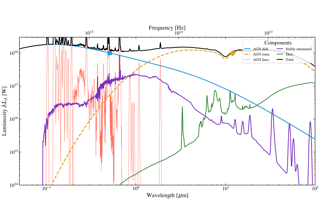
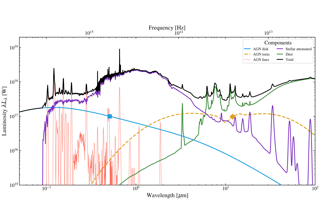
docs(gallery): back-fill 36 missing example figures + render showcase section
Renders and commits figures for examples whose source shipped in recent
feature PRs but were never rendered into the committed gallery (so they 404'd
on the deployed site). Covers AGN (feii_sweep, nenkova, torus_screen, kd18),
dust (wg00, reddy15, uv_bump, themis, dale2014), x-ray, radio, sfh, sps,
advanced diagnostics, and the newly-registered showcase group, plus the
re-rendered GRAHSP Fig.1 with corrected host normalisation.

Deferred (hidden via conf.py ignore_pattern, see that file): heavy fit/VI/
timing scripts, two population vmap scripts that OOM the build, and three
examples blocked on upstream library gaps (cat3d wind-fraction no-op,
unregistered skirtor_agnfitter torus, NaN Cue recipes).

diff --git a/docs/auto_examples/agn/plot_grahsp_paper_fig1_overview.py b/docs/auto_examples/agn/plot_grahsp_paper_fig1_overview.py
@@ -39,9 +39,9 @@ from tengri.components.agn.grahsp.templates import load_grahsp_templates
 setup_style()
 warnings.filterwarnings("ignore", message=".*BakedInBackend.*")
 
-C_NM_HZ = 2.99792458e17  # c in nm/s
+C_AA_HZ = 2.99792458e18  # c in Angstrom/s (st.wave is in Angstrom)
 ERG_TO_W = 1e-7
-L5100_ERG = 1.0e44  # disk normalisation (paper: = 1e37 W)
+L5100_ERG = 1.0e44  # disk normalisation: lambda*L_lambda(5100 A) (paper: = 1e37 W)
 
 # No-arg load_ssp() auto-discovers the bundled PARSEC/MILES/Chabrier wNE grid
 # regardless of the working directory (sphinx-gallery executes from elsewhere).
@@ -64,13 +64,14 @@ model = SEDModel.build(
 )
 params = model.spec.get_fixed_values()
 st = model.predict_state(params)
-wave_nm = np.asarray(st.wave)
-wave_um = wave_nm / 1e4
+wave_aa = np.asarray(st.wave)  # rest-frame wavelength [Angstrom]
+wave_um = wave_aa / 1e4
+wave_nm = wave_aa * 0.1  # nm grid for the GRAHSP evaluation
 
 
 def nu_Lnu_W(lnu):
-    # L_nu [erg/s/Hz] -> nu*L_nu = lambda*L_lambda [W]
-    return np.asarray(lnu) * (C_NM_HZ / wave_nm) * ERG_TO_W
+    # L_nu [erg/s/Hz] -> nu*L_nu = lambda*L_lambda [W]; wavelength in Angstrom.
+    return np.asarray(lnu) * (C_AA_HZ / wave_aa) * ERG_TO_W
 
 
 # --- Galaxy components (rest frame, from the forward state) ---
@@ -80,14 +81,18 @@ dust_ir = nu_Lnu_W(st.derived["sed_dust_ir"])  # galaxy dust emission
 # --- AGN sub-components, split via a matched GRAHSP evaluation ---
 templates = load_grahsp_templates()
 agn_params = GRAHSPParams(l5100=L5100_ERG, a_feii=5.0, fcov=0.4, si=-1.0)
-sed_agn = evaluate_grahsp_agn(jnp.asarray(wave_nm * 0.1), agn_params, templates)  # nm grid
-# evaluate returns L_lambda [erg/s/nm]; convert to L_nu then to nu*L_nu.
-to_lnu = (wave_nm**2) / C_NM_HZ  # L_lambda[/nm] -> L_nu : * lambda^2 / c (lambda in nm)
-disk = nu_Lnu_W(np.asarray(sed_agn.bbb) * to_lnu)
-torus = nu_Lnu_W(np.asarray(sed_agn.torus + sed_agn.si) * to_lnu)
-agn_lines = nu_Lnu_W(
-    np.asarray(sed_agn.broad_lines + sed_agn.narrow_lines + sed_agn.feii) * to_lnu
-)
+sed_agn = evaluate_grahsp_agn(jnp.asarray(wave_nm), agn_params, templates)  # nm grid
+
+
+def lam_Llam_W(l_lambda_per_nm):
+    # GRAHSP returns L_lambda [erg/s/nm]; lambda*L_lambda = L_lambda[/nm] * lambda[nm].
+    # This is identical to nu*L_nu, so it overlays consistently on the host curves.
+    return np.asarray(l_lambda_per_nm) * wave_nm * ERG_TO_W
+
+
+disk = lam_Llam_W(sed_agn.bbb)
+torus = lam_Llam_W(sed_agn.torus + sed_agn.si)
+agn_lines = lam_Llam_W(sed_agn.broad_lines + sed_agn.narrow_lines + sed_agn.feii)
 
 total = stellar + dust_ir + disk + torus + agn_lines
 
@@ -108,13 +113,15 @@ ax.plot([12.0], [torus[i12]], "D", color="#e0a020", ms=9, zorder=6)
 ax.set_xscale("log")
 ax.set_yscale("log")
 ax.set_xlim(0.05, 100.0)
-ax.set_ylim(1e34, 3e38)
+ax.set_ylim(1e35, 2e39)
 ax.set_xlabel(r"Wavelength [$\mu$m]")
 ax.set_ylabel(r"Luminosity $\lambda L_\lambda$ [W]")
 ax.legend(loc="upper right", frameon=True, fontsize=9, ncol=2, title="Components")
 
+# Secondary frequency axis: nu [Hz] = c[um/s] / lambda[um]; c/1e4 converts
+# c in Angstrom/s to um/s.
 secax = ax.secondary_xaxis(
-    "top", functions=(lambda x: C_NM_HZ / 1e3 / x, lambda nu: C_NM_HZ / 1e3 / nu)
+    "top", functions=(lambda x: C_AA_HZ / 1e4 / x, lambda nu: C_AA_HZ / 1e4 / nu)
 )
 secax.set_xlabel("Frequency [Hz]")
 

diff --git a/docs/conf.py b/docs/conf.py
@@ -216,7 +216,7 @@ _GALLERY_SECTION_ORDER = (
 # Tell sphinx-gallery to emit gallery subsections in the same pedagogical
 # order on the gallery landing page body (otherwise it falls back to
 # alphabetical-by-directory and "Advanced Topics" lands first).
-from sphinx_gallery.sorting import ExplicitOrder  # noqa: E402
+from sphinx_gallery.sorting import ExplicitOrder
 
 sphinx_gallery_conf["subsection_order"] = ExplicitOrder(
     [f"../examples/{s}" for s in _GALLERY_SECTION_ORDER]

diff --git a/docs/auto_examples/agn/plot_grahsp_paper_fig1_overview.rst b/docs/auto_examples/agn/plot_grahsp_paper_fig1_overview.rst
@@ -43,7 +43,7 @@ emission (green).
    within the purple stellar curve. A bare-stellar SSP + Cue nebular backend
    would separate it (see ``docs`` on SSP variants).
 
-.. GENERATED FROM PYTHON SOURCE LINES 22-123
+.. GENERATED FROM PYTHON SOURCE LINES 22-130
 
 
 
@@ -57,8 +57,8 @@ emission (green).
 
  .. code-block:: none
 
-    /Users/suchethacooray/Projects/tengri/examples/agn/plot_grahsp_paper_fig1_overview.py:117: RuntimeWarning: divide by zero encountered in divide
-      "top", functions=(lambda x: C_NM_HZ / 1e3 / x, lambda nu: C_NM_HZ / 1e3 / nu)
+    /Users/suchethacooray/Projects/tengri/examples/agn/plot_grahsp_paper_fig1_overview.py:124: RuntimeWarning: divide by zero encountered in divide
+      "top", functions=(lambda x: C_AA_HZ / 1e4 / x, lambda nu: C_AA_HZ / 1e4 / nu)
 
 
 
@@ -89,9 +89,9 @@ emission (green).
     setup_style()
     warnings.filterwarnings("ignore", message=".*BakedInBackend.*")
 
-    C_NM_HZ = 2.99792458e17  # c in nm/s
+    C_AA_HZ = 2.99792458e18  # c in Angstrom/s (st.wave is in Angstrom)
     ERG_TO_W = 1e-7
-    L5100_ERG = 1.0e44  # disk normalisation (paper: = 1e37 W)
+    L5100_ERG = 1.0e44  # disk normalisation: lambda*L_lambda(5100 A) (paper: = 1e37 W)
 
     # No-arg load_ssp() auto-discovers the bundled PARSEC/MILES/Chabrier wNE grid
     # regardless of the working directory (sphinx-gallery executes from elsewhere).
@@ -114,13 +114,14 @@ emission (green).
     )
     params = model.spec.get_fixed_values()
     st = model.predict_state(params)
-    wave_nm = np.asarray(st.wave)
-    wave_um = wave_nm / 1e4
+    wave_aa = np.asarray(st.wave)  # rest-frame wavelength [Angstrom]
+    wave_um = wave_aa / 1e4
+    wave_nm = wave_aa * 0.1  # nm grid for the GRAHSP evaluation
 
 
     def nu_Lnu_W(lnu):
-        # L_nu [erg/s/Hz] -> nu*L_nu = lambda*L_lambda [W]
-        return np.asarray(lnu) * (C_NM_HZ / wave_nm) * ERG_TO_W
+        # L_nu [erg/s/Hz] -> nu*L_nu = lambda*L_lambda [W]; wavelength in Angstrom.
+        return np.asarray(lnu) * (C_AA_HZ / wave_aa) * ERG_TO_W
 
 
     # --- Galaxy components (rest frame, from the forward state) ---
@@ -130,14 +131,18 @@ emission (green).
     # --- AGN sub-components, split via a matched GRAHSP evaluation ---
     templates = load_grahsp_templates()
     agn_params = GRAHSPParams(l5100=L5100_ERG, a_feii=5.0, fcov=0.4, si=-1.0)
-    sed_agn = evaluate_grahsp_agn(jnp.asarray(wave_nm * 0.1), agn_params, templates)  # nm grid
-    # evaluate returns L_lambda [erg/s/nm]; convert to L_nu then to nu*L_nu.
-    to_lnu = (wave_nm**2) / C_NM_HZ  # L_lambda[/nm] -> L_nu : * lambda^2 / c (lambda in nm)
-    disk = nu_Lnu_W(np.asarray(sed_agn.bbb) * to_lnu)
-    torus = nu_Lnu_W(np.asarray(sed_agn.torus + sed_agn.si) * to_lnu)
-    agn_lines = nu_Lnu_W(
-        np.asarray(sed_agn.broad_lines + sed_agn.narrow_lines + sed_agn.feii) * to_lnu
-    )
+    sed_agn = evaluate_grahsp_agn(jnp.asarray(wave_nm), agn_params, templates)  # nm grid
+
+
+    def lam_Llam_W(l_lambda_per_nm):
+        # GRAHSP returns L_lambda [erg/s/nm]; lambda*L_lambda = L_lambda[/nm] * lambda[nm].
+        # This is identical to nu*L_nu, so it overlays consistently on the host curves.
+        return np.asarray(l_lambda_per_nm) * wave_nm * ERG_TO_W
+
+
+    disk = lam_Llam_W(sed_agn.bbb)
+    torus = lam_Llam_W(sed_agn.torus + sed_agn.si)
+    agn_lines = lam_Llam_W(sed_agn.broad_lines + sed_agn.narrow_lines + sed_agn.feii)
 
     total = stellar + dust_ir + disk + torus + agn_lines
 
@@ -158,18 +163,25 @@ emission (green).
     ax.set_xscale("log")
     ax.set_yscale("log")
     ax.set_xlim(0.05, 100.0)
-    ax.set_ylim(1e34, 3e38)
+    ax.set_ylim(1e35, 2e39)
     ax.set_xlabel(r"Wavelength [$\mu$m]")
     ax.set_ylabel(r"Luminosity $\lambda L_\lambda$ [W]")
     ax.legend(loc="upper right", frameon=True, fontsize=9, ncol=2, title="Components")
 
+    # Secondary frequency axis: nu [Hz] = c[um/s] / lambda[um]; c/1e4 converts
+    # c in Angstrom/s to um/s.
     secax = ax.secondary_xaxis(
-        "top", functions=(lambda x: C_NM_HZ / 1e3 / x, lambda nu: C_NM_HZ / 1e3 / nu)
+        "top", functions=(lambda x: C_AA_HZ / 1e4 / x, lambda nu: C_AA_HZ / 1e4 / nu)
     )
     secax.set_xlabel("Frequency [Hz]")
 
     fig.tight_layout()
     plt.show()
+
+
+.. rst-class:: sphx-glr-timing
+
+   **Total running time of the script:** (0 minutes 2.220 seconds)
 
 
 .. _sphx_glr_download_auto_examples_agn_plot_grahsp_paper_fig1_overview.py:

diff --git a/docs/auto_examples/showcase/sg_execution_times.rst b/docs/auto_examples/showcase/sg_execution_times.rst
@@ -1,0 +1,40 @@
+
+:orphan:
+
+.. _sphx_glr_auto_examples_showcase_sg_execution_times:
+
+
+Computation times
+=================
+**00:02.492** total execution time for 2 files **from auto_examples/showcase**:
+
+.. container::
+
+  .. raw:: html
+
+    <style scoped>
+    <link href="https://cdnjs.cloudflare.com/ajax/libs/twitter-bootstrap/5.3.0/css/bootstrap.min.css" rel="stylesheet" />
+    <link href="https://cdn.datatables.net/1.13.6/css/dataTables.bootstrap5.min.css" rel="stylesheet" />
+    </style>
+    <script src="https://code.jquery.com/jquery-3.7.0.js"></script>
+    <script src="https://cdn.datatables.net/1.13.6/js/jquery.dataTables.min.js"></script>
+    <script src="https://cdn.datatables.net/1.13.6/js/dataTables.bootstrap5.min.js"></script>
+    <script type="text/javascript" class="init">
+    $(document).ready( function () {
+        $('table.sg-datatable').DataTable({order: [[1, 'desc']]});
+    } );
+    </script>
+
+  .. list-table::
+   :header-rows: 1
+   :class: table table-striped sg-datatable
+
+   * - Example
+     - Time
+     - Mem (MB)
+   * - :ref:`sphx_glr_auto_examples_showcase_plot_gradient_degeneracy_direction.py` (``plot_gradient_degeneracy_direction.py``)
+     - 00:01.272
+     - 0.0
+   * - :ref:`sphx_glr_auto_examples_showcase_plot_jax_gradient_sensitivity.py` (``plot_jax_gradient_sensitivity.py``)
+     - 00:01.220
+     - 0.0
